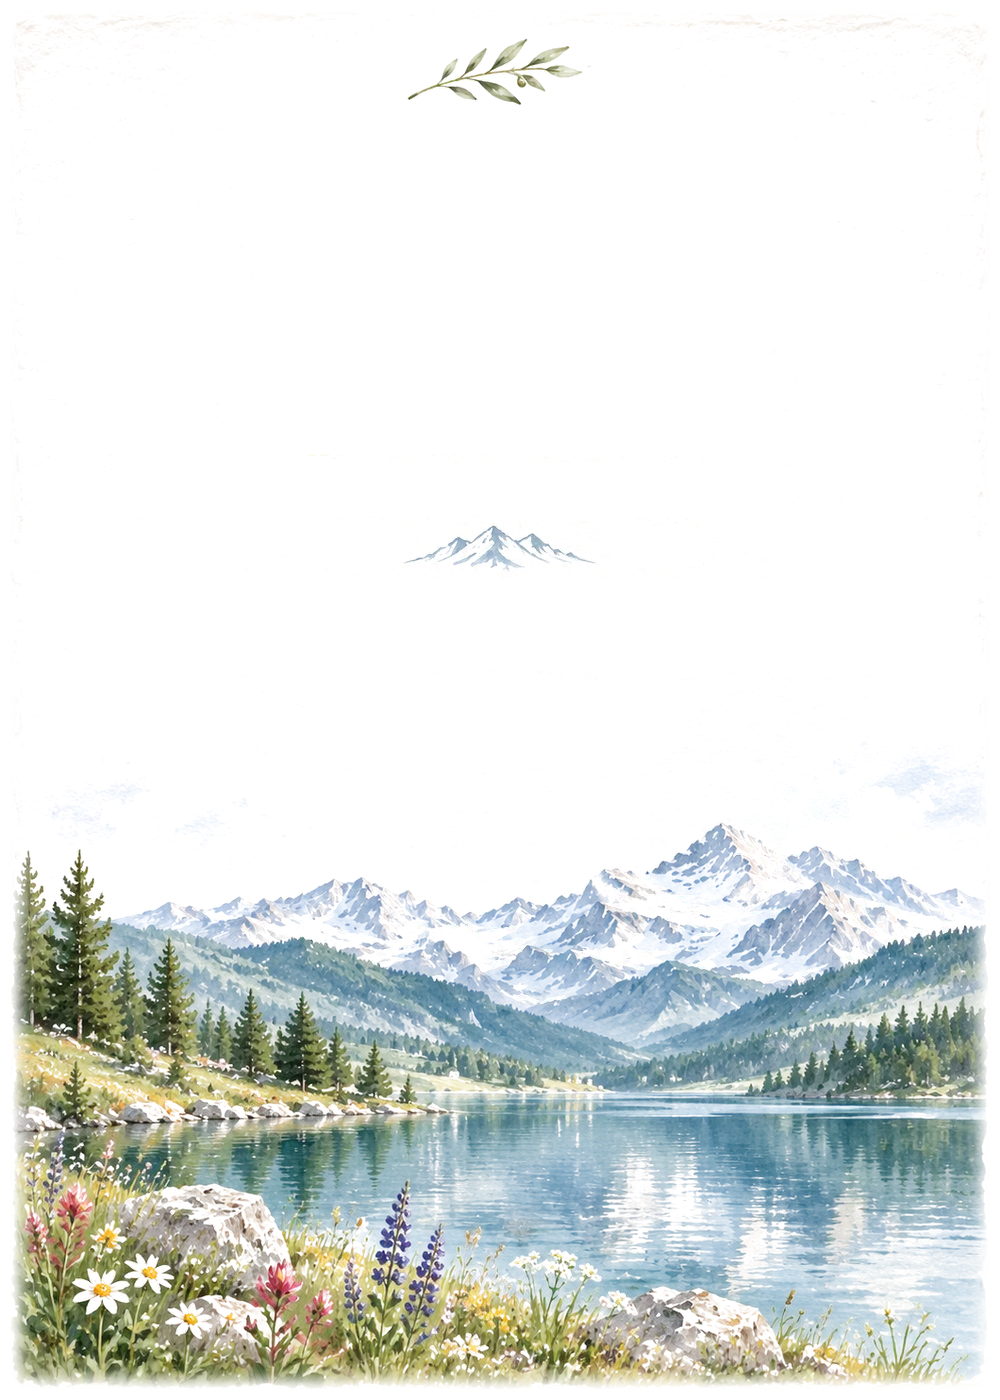
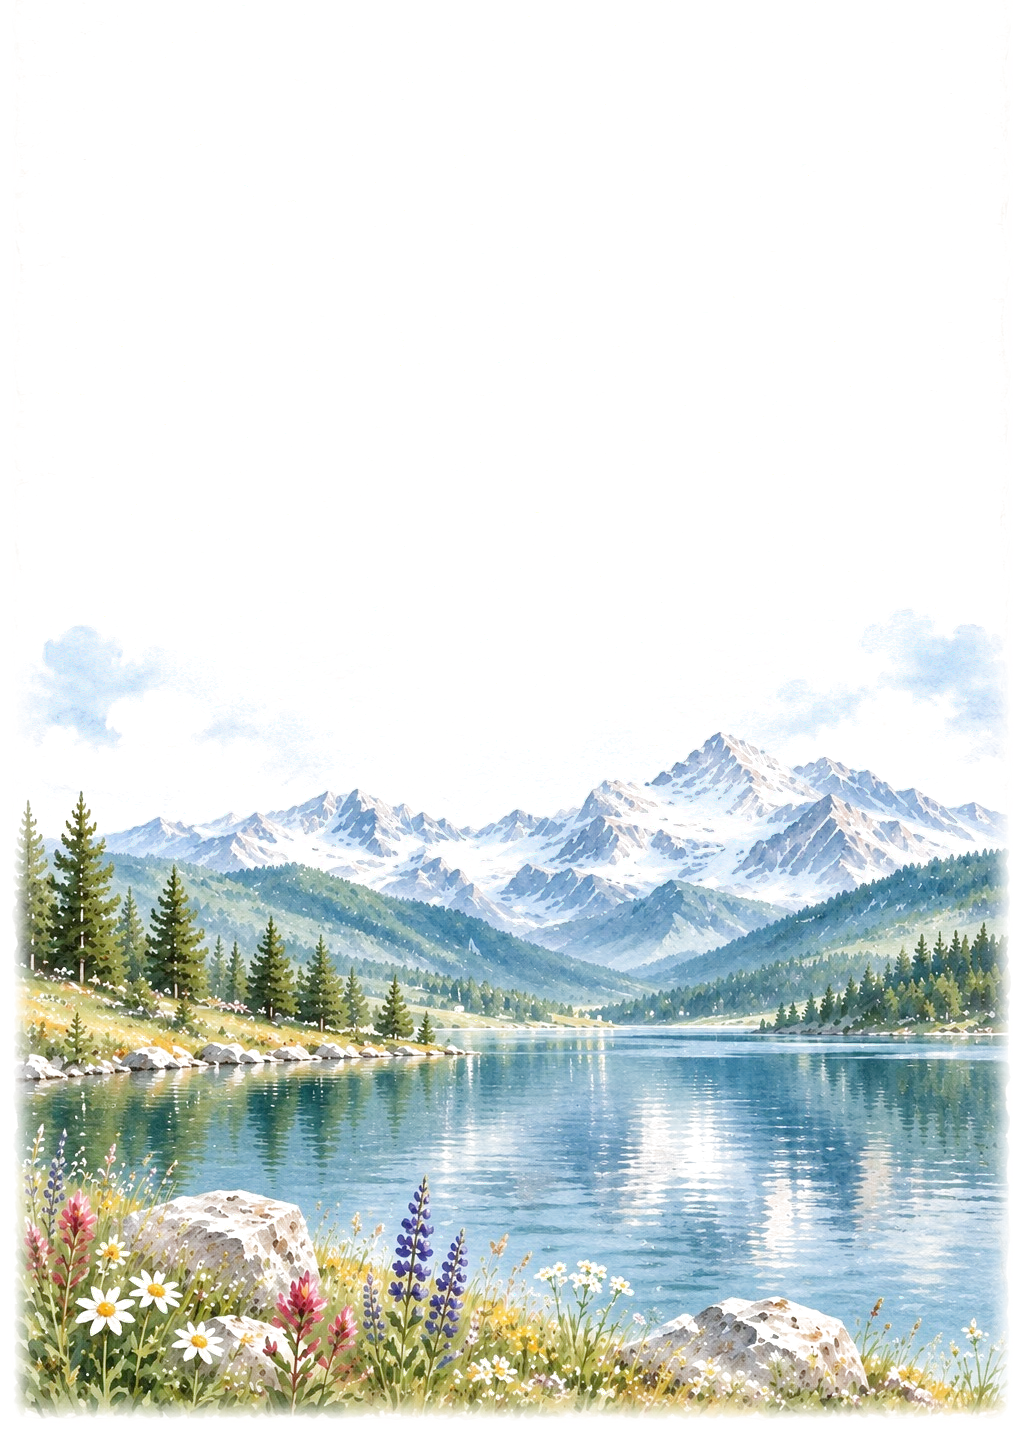
Highland: final text-free painting on both cards, sprig and peaks as their own layers
Claude-Session: https://claude.ai/code/session_01VSxtNjXHZv2mNuuYnRFjyN

diff --git a/src/lib/save-the-date/invitations.ts b/src/lib/save-the-date/invitations.ts
@@ -73,7 +73,9 @@ const art = (l: Omit<ArtLayer, "kind">): ArtLayer => ({ kind: "art", ...l });
  */
 const LAID_OUT: Record<string, Layer[]> = {
   "highland-lake": [
-    art({ id: "scene", label: "Alpine lake", art: "highlandInv", x: 0, y: 0, w: 1000 }),
+    // The painting sits lower than on the save the date, under the longer wording.
+    art({ id: "scene", label: "Alpine lake", art: "highlandInv", x: 0, y: 110, w: 1000 }),
+    art({ id: "sprig", label: "Olive sprig", art: "highlandSprig", x: 400, y: 50, w: 200 }),
     art({ id: "deckle", label: "Deckled edge", art: "deckle", x: 0, y: 0, w: 1000, color: "ink", opacity: 0.6 }),
     text({ id: "host", label: "Hosts", bind: "headline", text: "Together with their families", y: 146, size: 23, font: "sans", color: "ink", upper: true, tracking: 0.2, maxWidth: 640 }),
     text({ id: "nameA", label: "First name", bind: "nameA", y: 262, size: 128, font: "script", color: "ink", maxWidth: 560 }),

diff --git a/src/lib/save-the-date/templates.ts b/src/lib/save-the-date/templates.ts
@@ -808,6 +808,8 @@ export const TEMPLATES: Template[] = [
     ],
     layers: [
       { kind: "art", id: "scene", label: "Alpine lake", art: "highlandStd", x: 0, y: 0, w: 1000 },
+      { kind: "art", id: "sprig", label: "Olive sprig", art: "highlandSprig", x: 345, y: 52, w: 310 },
+      { kind: "art", id: "peaks", label: "Mountain motif", art: "highlandPeaks", x: 410, y: 128, w: 180 },
       { kind: "art", id: "deckle", label: "Deckled edge", art: "deckle", x: 0, y: 0, w: 1000, color: "ink", opacity: 0.6 },
       { kind: "text", id: "headline", label: "Headline", bind: "headline", text: "Save the date", x: 500, y: 262, size: 66, font: "display", color: "ink", upper: true, tracking: 0.16, anchor: "middle", maxWidth: 820 },
       { kind: "art", id: "rule", label: "Rule", art: "rule", x: 405, y: 310, w: 190, color: "accent" },

diff --git a/src/components/save-the-date/art.tsx b/src/components/save-the-date/art.tsx
@@ -957,9 +957,10 @@ export const ART: Record<string, ArtDef> = {
     },
   },
   // ---- Batch A suites ----
-  highlandStd: batchA("Alpine lake", "highland-std", 1000, 1400),
-  highlandInv: batchA("Alpine lake (invitation)", "highland-inv", 1000, 1400),
+  highlandStd: batchA("Alpine lake", "highland-std", 1024, 1434),
+  highlandInv: batchA("Alpine lake (invitation)", "highland-inv", 1024, 1434),
   highlandSprig: batchA("Olive sprig", "highland-sprig", 330, 80),
+  highlandPeaks: batchA("Mountain motif", "highland-peaks", 230, 70),
   highlandForest: batchA("Pines and rocks", "highland-forest", 162, 170),
   heirloomStd: batchA("Peony corners", "heirloom-std", 1000, 1400),
   heirloomInv: batchA("Peony corners (invitation)", "heirloom-inv", 1000, 1400),
